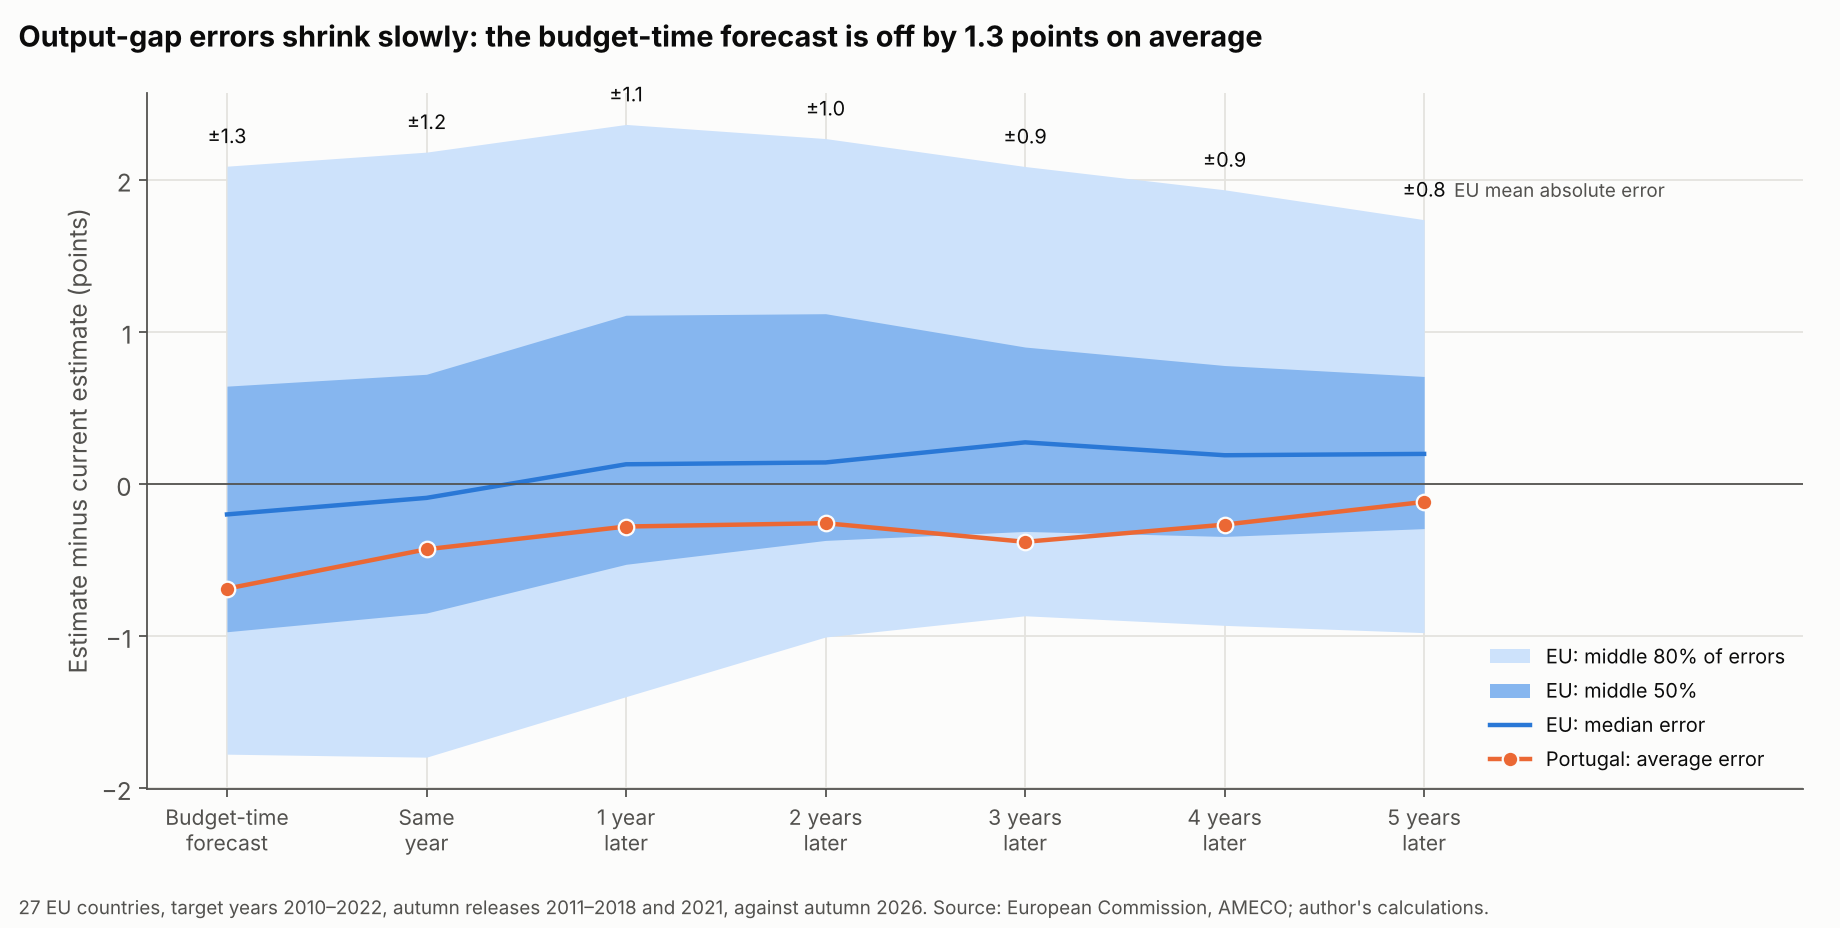
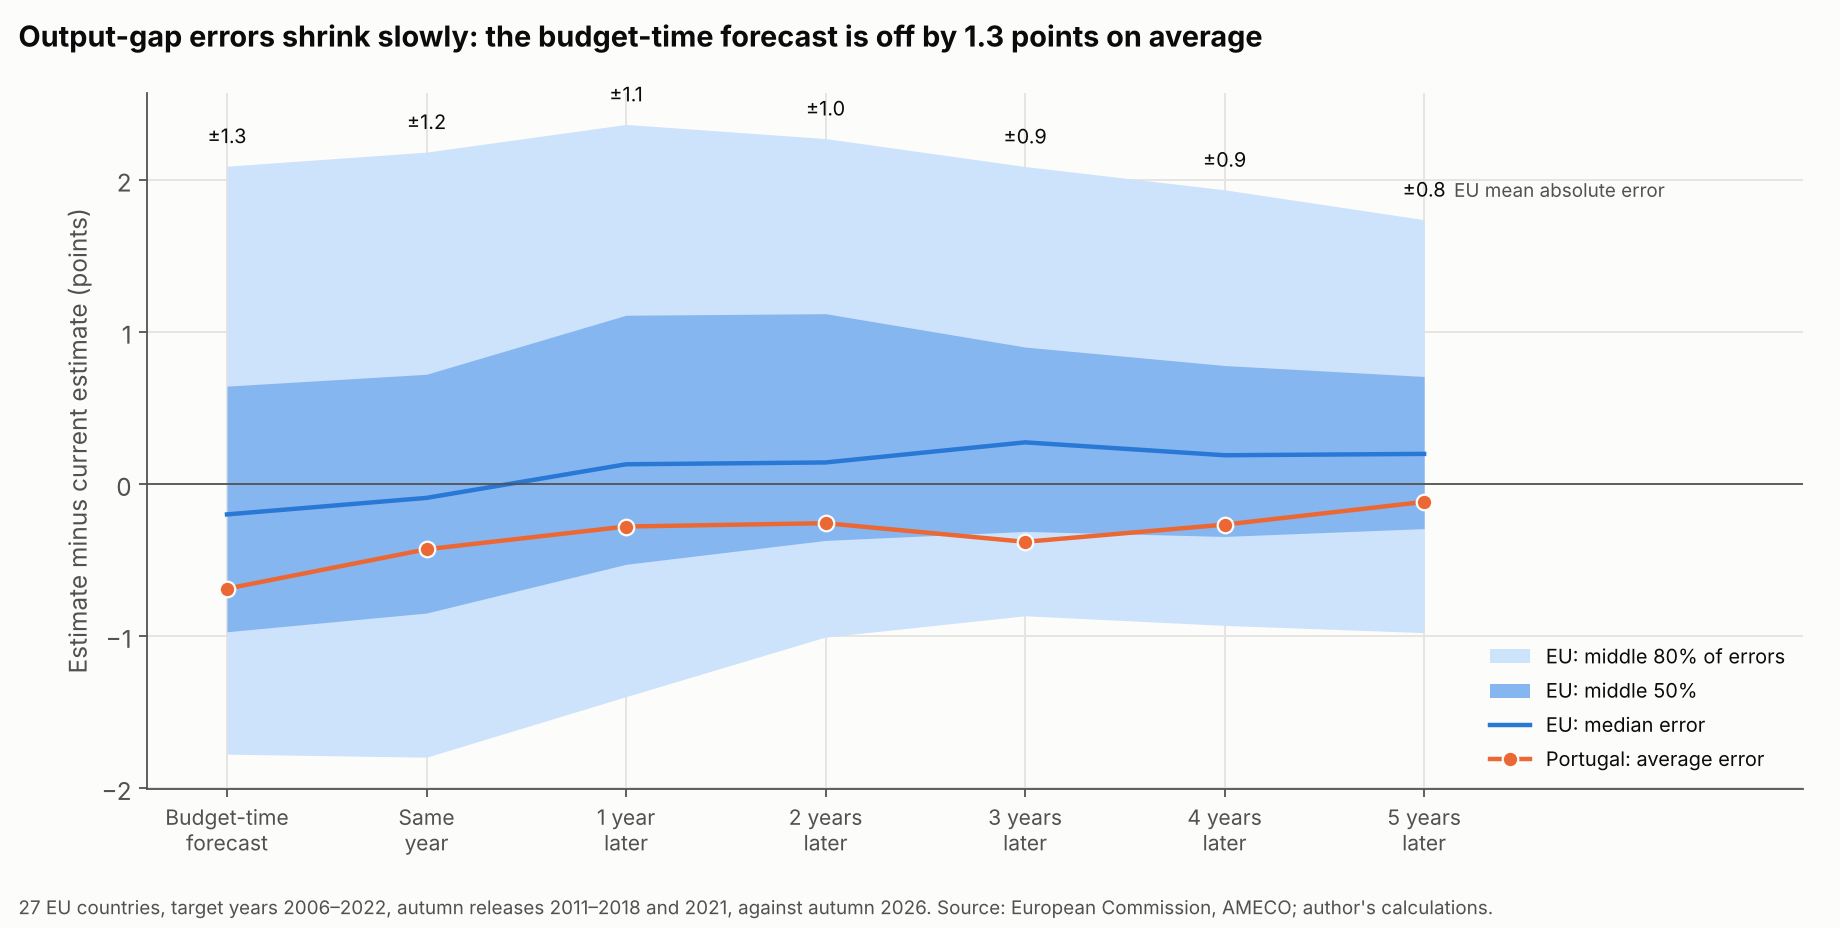
portugal-realtime-output-gap: correct the target-year range in figure 2

Changed region(s): [[0.1549, 0.9688, 0.8054, 1.0]]

diff --git a/portugal-realtime-output-gap/figures.py b/portugal-realtime-output-gap/figures.py
@@ -118,7 +118,7 @@ def fig_ages(res: dict, path: Path):
     ax.legend(loc="lower right", fontsize=9)
     title(fig, "Output-gap errors shrink slowly: the budget-time forecast is off by 1.3 points on average")
     fig.subplots_adjust(left=0.08, right=0.98, top=0.9, bottom=0.15)
-    note(fig, "27 EU countries, target years 2010–2022, autumn releases 2011–2018 and 2021, against autumn 2026. "
+    note(fig, "27 EU countries, target years 2006–2022, autumn releases 2011–2018 and 2021, against autumn 2026. "
               "Source: European Commission, AMECO; author's calculations.")  # fmt: skip
     fig.savefig(path / "fig2_errors_by_age.png", dpi=160)
     plt.close(fig)
